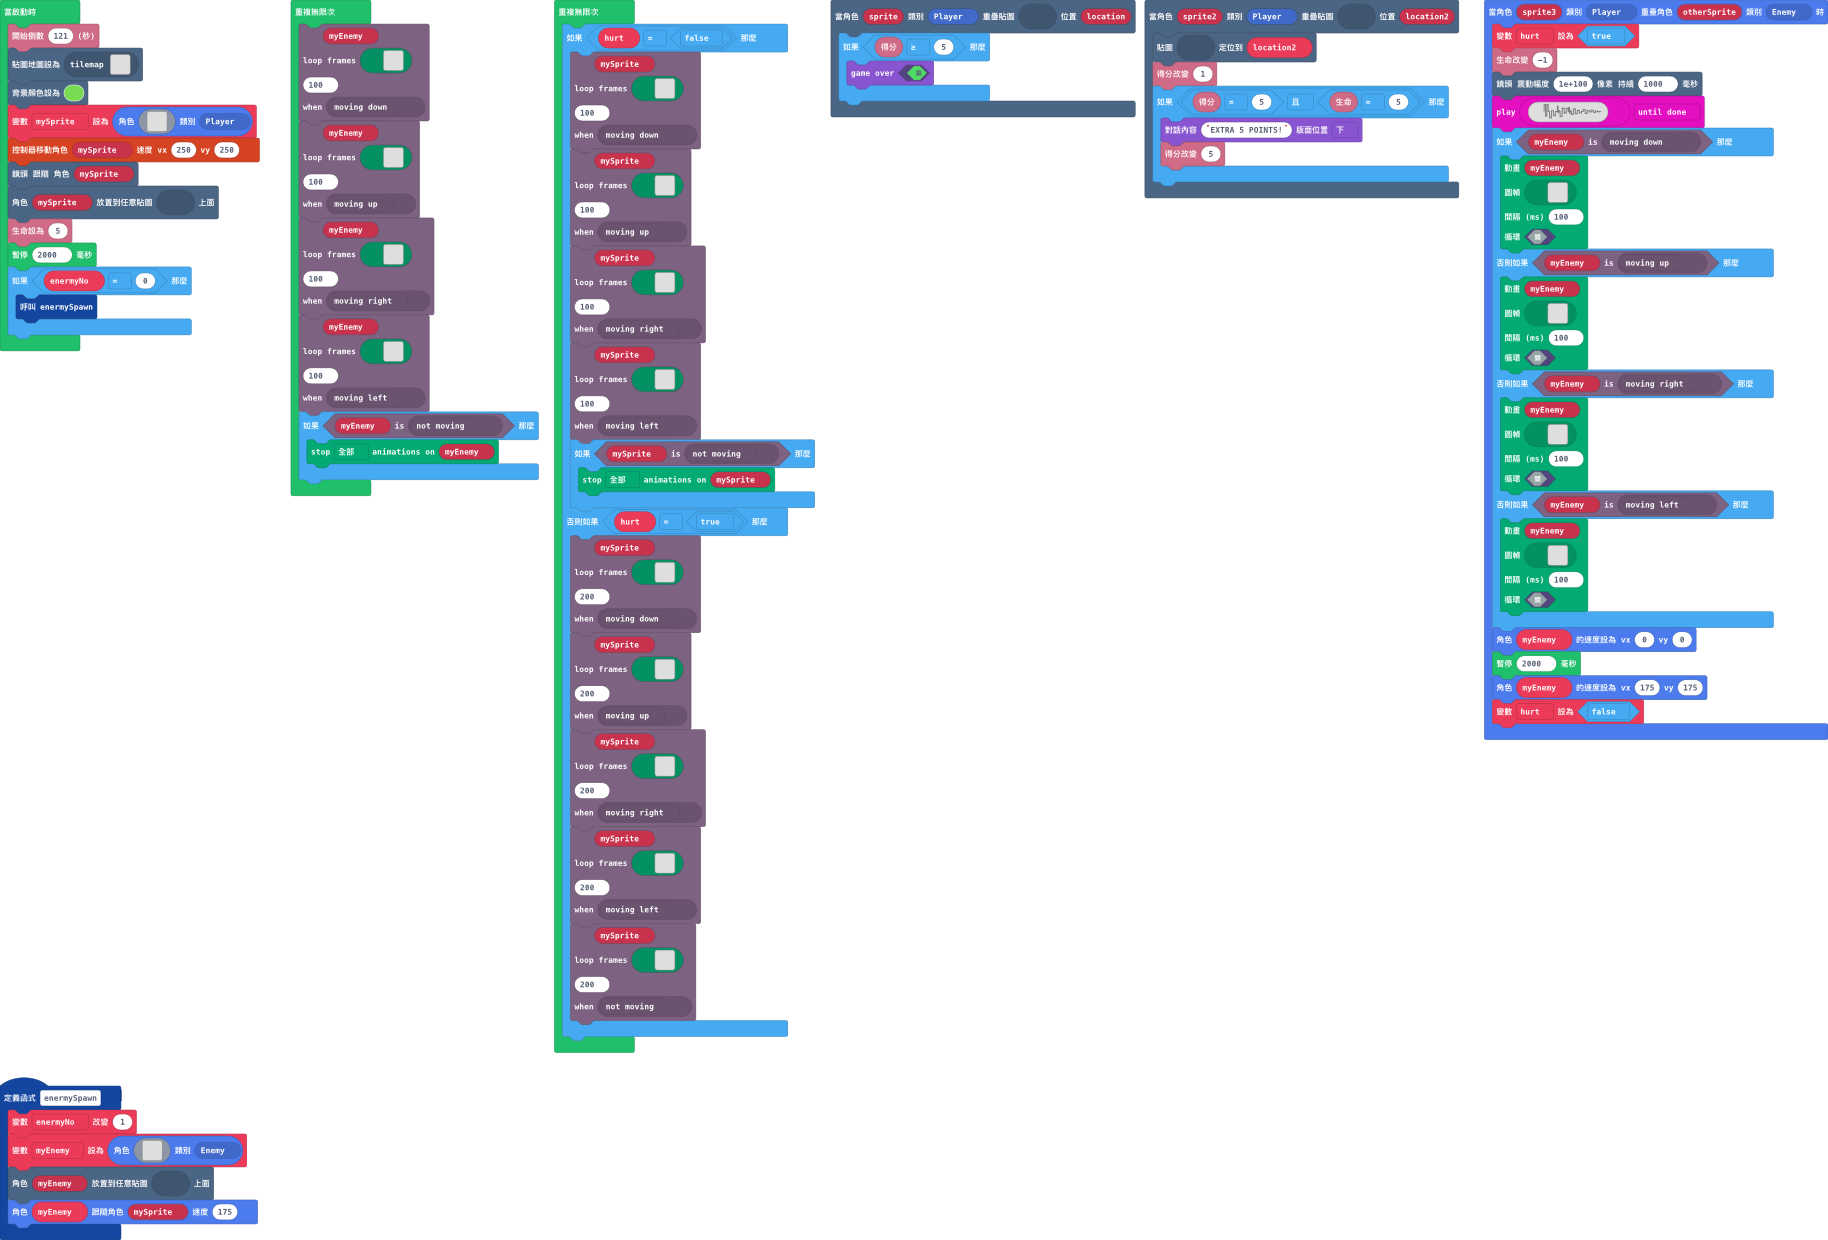
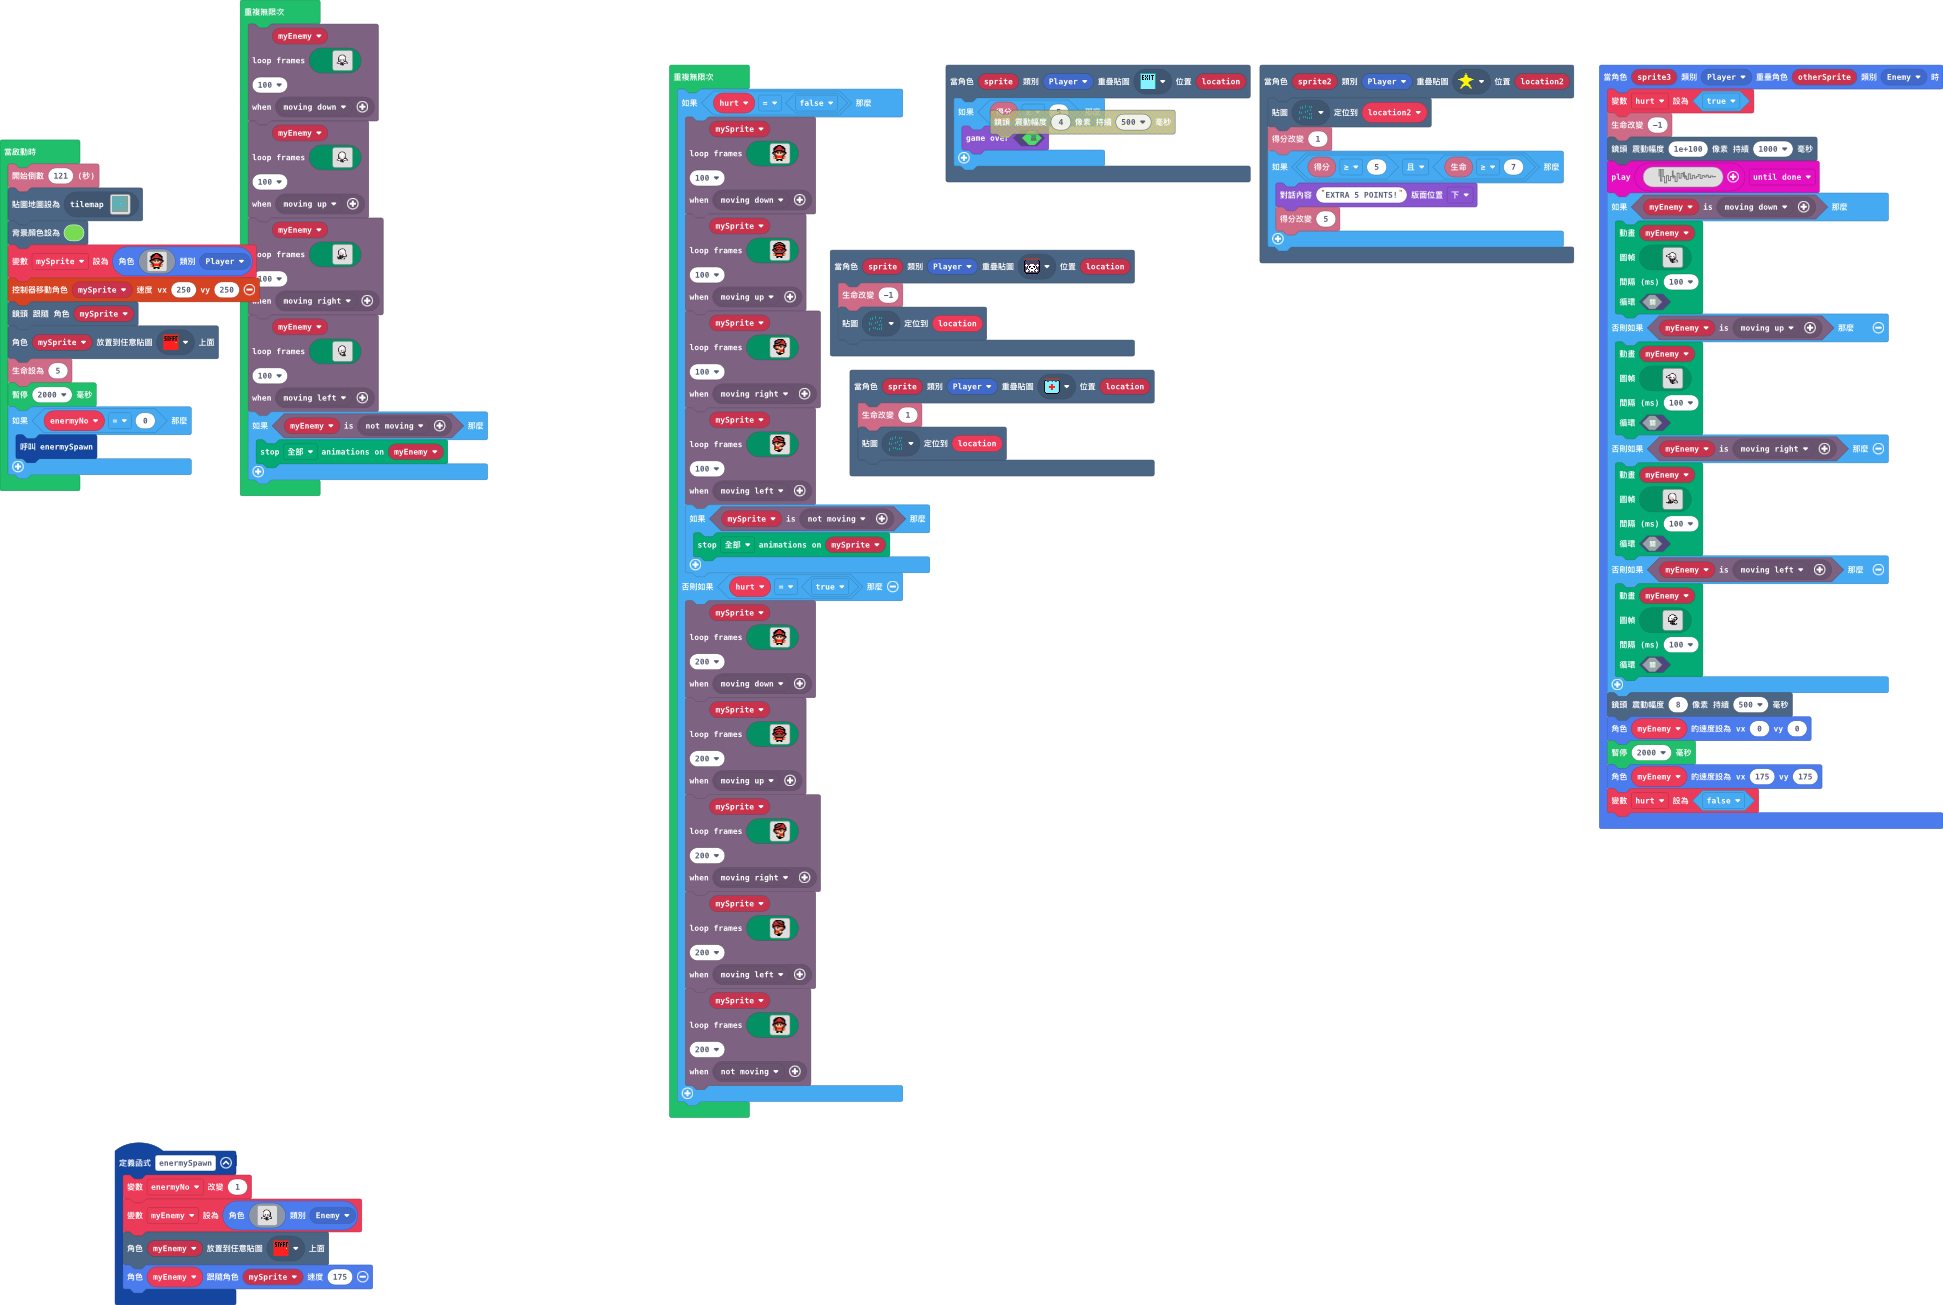
some drinks let add life and lose life

diff --git a/tilemap.g.ts b/tilemap.g.ts
@@ -24,6 +24,10 @@ namespace myTiles {
     export const tile10 = image.ofBuffer(hex``);
     //% fixedInstance jres blockIdentity=images._tile
     export const tile11 = image.ofBuffer(hex``);
+    //% fixedInstance jres blockIdentity=images._tile
+    export const tile12 = image.ofBuffer(hex``);
+    //% fixedInstance jres blockIdentity=images._tile
+    export const tile13 = image.ofBuffer(hex``);
 
     helpers._registerFactory("tilemap", function(name: string) {
         switch(helpers.stringTrim(name)) {
@@ -46,8 +50,27 @@ namespace myTiles {
 . . . . . . . . . . . . . . . . 
 . . . . . . . . . . . . . . . . 
 `, [myTiles.transparency16], TileScale.Sixteen);
+            case "層級1":
+            case "層級1":return tiles.createTilemap(hex`1000100000000000000000000000000000000000000000000000000000000000000000000000000000000000000000000000000000000000000000000000000000000000000000000000000000000000000000000000000000000000000000000000000000000000000000000000000000000000000000000000000000000000000000000000000000000000000000000000000000000000000000000000000000000000000000000000000000000000000000000000000000000000000000000000000000000000000000000000000000000000000000000000000000000000000000000000000000000000000000000000000000000000000000000000000000000000`, img`
+. . . . . . . . . . . . . . . . 
+. . . . . . . . . . . . . . . . 
+. . . . . . . . . . . . . . . . 
+. . . . . . . . . . . . . . . . 
+. . . . . . . . . . . . . . . . 
+. . . . . . . . . . . . . . . . 
+. . . . . . . . . . . . . . . . 
+. . . . . . . . . . . . . . . . 
+. . . . . . . . . . . . . . . . 
+. . . . . . . . . . . . . . . . 
+. . . . . . . . . . . . . . . . 
+. . . . . . . . . . . . . . . . 
+. . . . . . . . . . . . . . . . 
+. . . . . . . . . . . . . . . . 
+. . . . . . . . . . . . . . . . 
+. . . . . . . . . . . . . . . . 
+`, [myTiles.transparency16], TileScale.Sixteen);
             case "level1":
[1 lines of base64/hex data omitted]
+            case "level1":return tiles.createTilemap(hex`3200320001010101010101010101010101010101010101010101010101010101010101010101010101010101010101010101010101010205050505050505050505050505050505050505050505050505050505050505050505050505050505050505050505050501010505050505050505050505050505050505050505050505050505050505050505050505050505050505050505050505050101050505050505050505050505050505050505050505050505070505050505050505050505050505050505050505050505010105050505050105050505050505050505050501050505050505050505050505050505050505050505050505050505050501010505050505010505050505050505050505050105050505050505050505050505050505050101010105050505050505050101050505050501050505050505050505050505010505050505050505050505050505050505050505050505050505050505010105050505050105050505050505050505050501050505050501050505050505050505050505050505050505050405050501010505050505010505050505050501050505050105050505050105050505050505050505050505050505050505050505050101050505050505050505050505050105050505050505050505010401010101010101010101050505050505050505050505010105050505050505050505050505010505050505050505050501050505050505050505050505050505050505050705050501010505050505050505050505050505050505050505050505050105050505050505050505050505060505050505050505050101050505050505050505050505050505050505050505050505010505050505050505050505050505050505050505050505010105050505050505050505050505050505050505050505050501050505050505050505050505050505050505050505050501010505050505050505050505050505050505050505050505050505050505050505050505050505050505050505050505050101050505050505050101010101010505050505050505050505050505050505050505050505050505050505050505050505010105050505050505050505050505050505050505010101050505050505050505050505050505050505050505050505050501010505050505050505050505050505050505050505050505050505050505050505050505050505050505050505050505050101050505050505050505050505050505060505050505050505050505050505050505050505050101010101010505050505010105050505050505050505050505050505050505050505050505050505050505050505050505050505050505050505050501010505050505050505050505050505050505050505050505050505050505050505050505050505050505050505050505050101050505050505050505050505050505050505050505050705050505050505050505050505050505050505050505050505010105050505050505050505050505050505010101050505050505050505050505050505050505050505050505050505050501010505050505010505050505050505050505050505050505050505050505050501050505050505050505050505050505050101050505050501050505050505050505050505050505050505050504050505050105050505050505050505050505050505010105050505050105050505050505050505050505050505050505050505050505010505050505050505050505050505050501010505050505050505050505050505050505050505050505050505050505050501050505050505050505050505050505050101050505050505050505050505050505050505050505050505010505050505050105050505050505050505050505050505010105050505050505050505050505050505050505050505050501050505050505010505050505050505050505050505050501010505050505050505050505010101010505050505050505050105050505050505050505050505050105050505050505050101050505050505050505050505050505050505050505050505010505050505050505050505050505010505050505050505010105050505050505050505050505050505050505050505050501050505050505050505050505050501050505050505050501010505050505050505050505050505050505050505050505050105050505050505050505050505050105050505050505050101050505050505050505050505050505050505050505050505010505050505050505050505060505010505050505050505010105050505050505050505050505050505050505050505050505050505050505050505050505050505050505050505050501010505050505050505050501050505050505050505050505050505050505050505050505050505050505050505050505050101050505050505050505050105050505050505050505050505050505050505050505050505050505050505050505050505010105050505050505050505010505050505050505050505050505050505050501010101010101050505050505050505050501010505050405050505050501050505050505050505050505050505050505050505050505050505050505050505050505050101050505050505050505050105050505050505010101010101010505050505050505050505050505050505050504050505010105050505050505050505010505050505050505050505050505050505050505050505010505050505050505050505050501010505050505050505060505050505050505050505050505050505050505050505050501050505010101010101050505050101050505050505050505050505050505050505050505050505050505050505050505050105050505050505050505050505010105050505050505050505050505050505050505050505050105050505050505050505050505050505050505050505050501010505050505050505050505050505050505050505050505010505050505050505050505050505050505050505050505050101050505050505050501010101010105050505050505050501050505050101010101010101010505070505050505050505010105050505050505050505050505050505050505050505050105050505050505050505050505050505050505050505050501010505050505050505050505050505050505050505050505050505050505050505050505050505050505050505050505050101050505050505050505050505050505050505050505050505050505050505050505050505050505050505050505050505030101010101010101010101010101010101010101010101010101010101010101010101010101010101010101010101010101`, img`
 22222222222222222222222222222222222222222222222222
 .................................................2
 2................................................2
@@ -98,7 +121,7 @@ namespace myTiles {
 2................................................2
 2.................................................
 22222222222222222222222222222222222222222222222222
-`, [myTiles.transparency16,myTiles.tile1,myTiles.tile2,myTiles.tile3,myTiles.tile5,myTiles.tile6,myTiles.tile7,myTiles.tile8,myTiles.tile9,myTiles.tile10,myTiles.tile11], TileScale.Sixteen);
+`, [myTiles.transparency16,myTiles.tile1,myTiles.tile2,myTiles.tile3,myTiles.tile5,myTiles.tile6,myTiles.tile12,myTiles.tile13], TileScale.Sixteen);
         }
         return null;
     })
@@ -128,6 +151,10 @@ namespace myTiles {
             case "tile10":return tile10;
             case "myTile8":
             case "tile11":return tile11;
+            case "我的貼圖":
+            case "tile12":return tile12;
+            case "我的貼圖0":
+            case "tile13":return tile13;
         }
         return null;
     })

diff --git a/main.ts b/main.ts
@@ -337,6 +337,7 @@ sprites.onOverlap(SpriteKind.Player, SpriteKind.Enemy, function (sprite3, otherS
         false
         )
     }
+    scene.cameraShake(8, 500)
     myEnemy.setVelocity(0, 0)
     pause(2000)
     myEnemy.setVelocity(175, 175)
@@ -373,13 +374,21 @@ function enermySpawn () {
     tiles.placeOnRandomTile(myEnemy, assets.tile`start`)
     myEnemy.follow(mySprite, 175)
 }
+scene.onOverlapTile(SpriteKind.Player, assets.tile`我的貼圖0`, function (sprite, location) {
+    info.changeLifeBy(-1)
+    tiles.setTileAt(location, assets.tile`myTile0`)
+})
 scene.onOverlapTile(SpriteKind.Player, assets.tile`myTile3`, function (sprite2, location2) {
     tiles.setTileAt(location2, assets.tile`myTile0`)
     info.changeScoreBy(1)
-    if (info.score() == 5 && info.life() == 5) {
+    if (info.score() >= 5 && info.life() >= 7) {
         game.showLongText("EXTRA 5 POINTS!", DialogLayout.Bottom)
         info.changeScoreBy(5)
     }
+})
+scene.onOverlapTile(SpriteKind.Player, assets.tile`我的貼圖`, function (sprite, location) {
+    info.changeLifeBy(1)
+    tiles.setTileAt(location, assets.tile`myTile0`)
 })
 let myEnemy: Sprite = null
 let hurt = false
